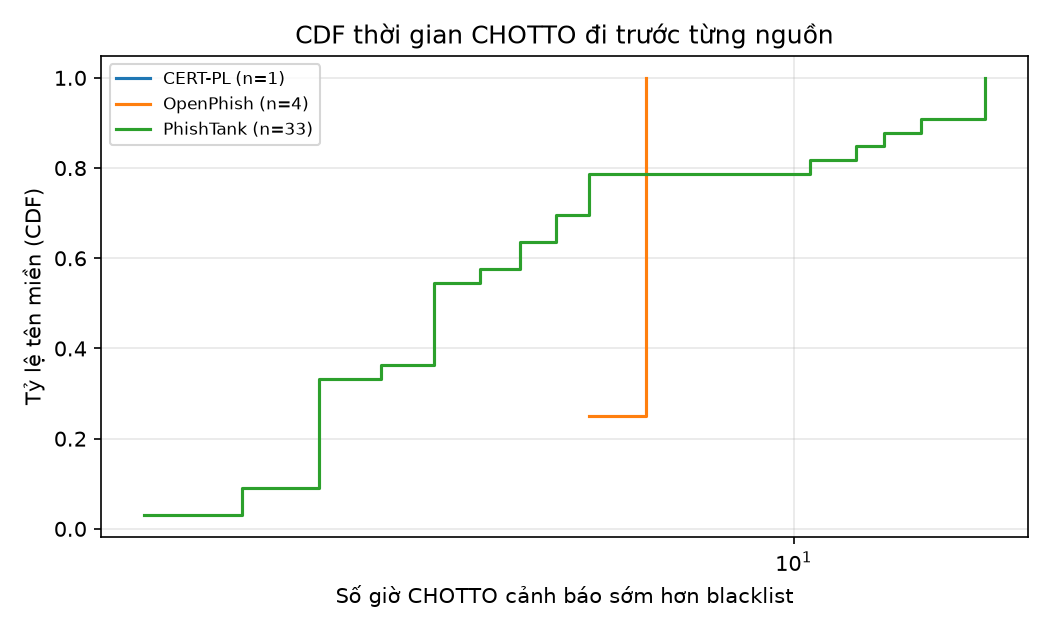
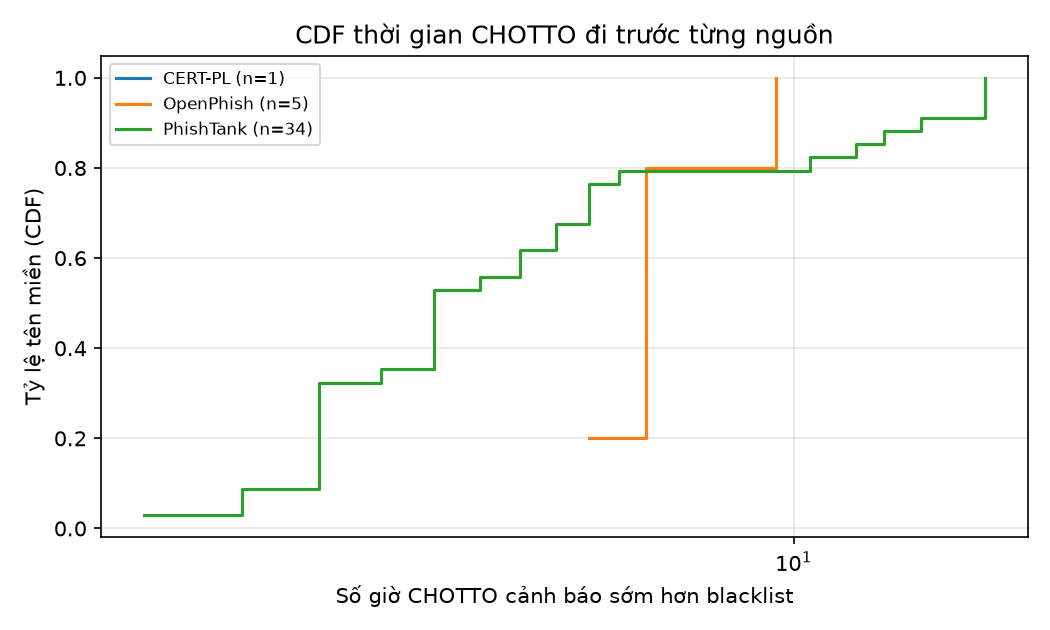
Chốt báo cáo zero-day: 3,0 ngày, 150 lần thu thập, 5.360 tên miền mới
- tỷ lệ bắt tách theo nguồn (OpenPhish 86,6%, PhishTank 24,1%, CERT-PL 7,7%); con số gộp 29,2% do cơ cấu mẫu
- PhishTank liệt kê muộn hơn trung vị 3,5 giờ (34 mẫu); thêm hạn chế về PhishTank 429 và cơ cấu mẫu
- cập nhật biểu đồ và zero-day-report.md/json

diff --git a/docs/BAO-CAO-ZERO-DAY.md b/docs/BAO-CAO-ZERO-DAY.md
@@ -1,7 +1,8 @@
 # Khoảng trống zero-day của link lừa đảo: CHOTTO (Tầng 2) đi trước blacklist bao lâu?
 
-> **Trạng thái (19/11/2026):** công cụ đo đã xong, báo cáo đã có số liệu tạm trên 2,61 ngày dữ liệu. Mọi chỗ đánh dấu **[CẦN CẬP NHẬT]** phải điền lại sau khi thu thập đủ ≥ 3 ngày (khuyến nghị 7 ngày).
-> Cách cập nhật nằm ở cuối file.
+> **Trạng thái: bản chốt (19/11/2026 14:00 UTC).** Thu thập 150 lần trong đúng 3,0 ngày (16/11 13:41 → 19/11 13:48 UTC),
+> 5.360 tên miền mới. Số liệu gốc: `docs/zero-day-report.md` và `docs/zero-day-report.json`. Thu thập vẫn đang chạy;
+> muốn cập nhật số liệu dài hơn thì xem mục cuối.
 
 ## 1. Đặt vấn đề
 
@@ -77,62 +78,88 @@ OpenPhish thêm mục mới (240 tên miền), vì vậy 230 tên miền đã ch
 so sánh được với nguồn thứ hai**. Đã thêm PhishTank và CERT-PL (baseline CERT-PL: 103.064 mục); PhishTank trả
 HTTP 429 (giới hạn tần suất tải) ở lần thử đầu, cần theo dõi. Các tên miền đã chấm trước khi một nguồn mới vào đo có thể nằm
 trong baseline của nguồn đó và bị loại riêng khỏi thống kê của nguồn đó (cắt trái). Hai nguồn lỗi vẫn nằm trong cấu hình để mỗi lần chạy thử lại; nếu chúng sống lại, lần thành công đầu tiên sẽ là
-baseline. **[CẦN CẬP NHẬT]** bảng tỷ lệ tải thành công theo nguồn từ `python tools/zero_day_gap.py status`.
+baseline.
+
+Tỷ lệ tải thành công sau 3 ngày (`python tools/zero_day_gap.py status`):
+
+| Nguồn | Thành công | Ghi chú |
+| --- | ---: | --- |
+| OpenPhish | 150/150 (100%) | |
+| CERT-PL | 114/115 (99%) | một lần hết thời gian chờ SSL |
+| PhishTank | 30/81 (37%) | HTTP 429 (giới hạn tần suất); **lần thành công cuối 19/11 08:18 UTC** |
+| Phishing.Database (NEW, ACTIVE) | 35/35 | đã bỏ khỏi danh sách từ 17/11, nguồn không đổi, bị loại khỏi bảng so sánh |
+| URLhaus | 0/150 | HTTP 410 |
+| ChongLuaDao | 0/150 | lỗi DNS |
 
 ### 4.2. Tỷ lệ cảnh báo ngay lúc thấy lần đầu
 
-**Số liệu tạm: 2,61 ngày, 131 lần thu thập, 3.310 tên miền mới (chốt 19/11/2026 04:18 UTC). [CẦN CẬP NHẬT khi đủ 3 ngày]**
-
 | Nhóm | Số tên miền mới | Cảnh báo | Tỷ lệ | Mức HIGH |
 | --- | ---: | ---: | ---: | ---: |
-| Tất cả | 3.310 | 1.330 | 40,2% | 814 |
-| Nhắm VN | 69 | 69 | 100% | 69 |
-| Toàn cầu | 3.241 | 1.261 | 38,9% | 745 |
+| Tất cả | 5.360 | 1.565 | 29,2% | 969 |
+| Nhắm VN | 80 | 80 | 100% | 80 |
+| Toàn cầu | 5.280 | 1.485 | 28,1% | 889 |
 
 Cách đọc đúng các con số này:
 
-- **Con số 40,2% là kết quả của cơ cấu mẫu, không phải một năng lực duy nhất.** Tỷ lệ bắt phụ thuộc rất mạnh vào nguồn
-  phát hiện tên miền: OpenPhish (cho URL đầy đủ) 86% (1.026/1.195), PhishTank 23% (36/156), CERT-PL (chỉ có tên
-  miền, nhiều tên miền thương mại thông thường) 14% (268/1.959). CERT-PL chiếm 59% mẫu nên kéo con số chung xuống.
+- **Con số chung 29,2% là kết quả của cơ cấu mẫu, không phải một năng lực duy nhất.** Tỷ lệ bắt phụ thuộc rất mạnh vào
+  nguồn phát hiện tên miền:
+
+  | Nguồn phát hiện đầu tiên | Số tên miền | Được cảnh báo | Tỷ lệ |
+  | --- | ---: | ---: | ---: |
+  | OpenPhish (URL đầy đủ) | 1.429 | 1.237 | 86,6% |
+  | PhishTank (URL đầy đủ) | 158 | 38 | 24,1% |
+  | CERT-PL (chỉ có tên miền) | 3.773 | 290 | 7,7% |
+  | *Hai nguồn có URL đầy đủ gộp lại* | *1.587* | *1.275* | *80,3%* |
+
+  CERT-PL chiếm 70% mẫu và kéo con số chung xuống. Tỷ lệ chung vì thế biến động theo thời gian (40,2% ở 2,6 ngày,
+  29,2% ở 3,0 ngày) chỉ do CERT-PL đưa thêm nhiều tên miền một lúc. **Không nên trích con số chung làm "tỷ lệ bắt zero-day"**.
+  Cách báo cáo trung thực: *khoảng 80% với link lừa đảo có URL đầy đủ như OpenPhish/PhishTank và khoảng 8% với tên miền
+  trần trong danh sách CERT-PL*, kèm các hạn chế ở mục 5.
 - **Nhóm "nhắm VN" 100% là vì cách xác định nhóm**: tên miền chứa từ khóa thương hiệu VN thì chính từ khóa đó cũng làm
-  Tầng 2 chấm điểm cao (mạo danh thương hiệu). Với n = 69, đây là cận trên, không phải tỷ lệ bắt thật với link nhắm VN.
-- Kết quả tương đối nhất quán với `BAO-CAO-DO-CHINH-XAC.md` (40,6% link toàn cầu trên danh sách tĩnh), dù hai phép đo khác
-  nhau về nguồn dữ liệu.
+  Tầng 2 chấm điểm cao (mạo danh thương hiệu). Với n = 80, đây là cận trên, không phải tỷ lệ bắt thật với link nhắm VN.
+- Con số 28-29% toàn cầu thấp hơn 40,6% của `BAO-CAO-DO-CHINH-XAC.md` (danh sách tĩnh của Phishing.Database) vì hai
+  phép đo khác nguồn: danh sách tĩnh chứa nhiều URL đầy đủ, còn mẫu này có 70% là tên miền trần từ CERT-PL.
 
 ![Tỷ lệ bắt theo nhóm](zero-day-rate-by-group.png)
 
 ### 4.3. CHOTTO đi trước từng nguồn bao nhiêu giờ
 
-**Số liệu tạm (2,61 ngày). [CẦN CẬP NHẬT khi đủ 3 ngày]** "Xét" là số tên miền không nằm trong baseline của nguồn đó.
+"Xét" là số tên miền không nằm trong baseline của nguồn đó.
 
-| Nguồn | Xét | Chưa liệt kê | Liệt kê muộn hơn | Cùng lúc | Sớm hơn Q1 / trung vị / Q3 (giờ) |
-| --- | ---: | ---: | ---: | ---: | --- |
-| OpenPhish | 3.310 | 2.095 | 20 | 1.195 | 6,2 / 6,5 / 6,5 |
-| PhishTank | 3.296 | 3.079 | 59 | 158 | 2,5 / 3,5 / 5,5 |
-| CERT-PL | 3.309 | 1.349 | 1 | 1.959 | 5,5 (một mẫu) |
+| Nguồn | Xét | Chưa liệt kê | Liệt kê muộn hơn | Cùng lúc | Mẫu tính độ trễ | Sớm hơn Q1 / trung vị / Q3 (giờ) |
+| --- | ---: | ---: | ---: | ---: | ---: | --- |
+| PhishTank | 5.346 | 5.125 | 61 | 160 | 34 | 2,5 / 3,5 / 5,5 |
+| OpenPhish | 5.360 | 3.909 | 22 | 1.429 | 5 | 6,5 / 6,5 / 6,5 |
+| CERT-PL | 5.359 | 1.585 | 1 | 3.773 | 1 | 5,5 (một mẫu) |
 
-Phần lớn tên miền nằm ở "chưa liệt kê" hoặc "cùng lúc" nên **số mẫu để tính độ trễ rất nhỏ** (cột cuối chỉ tính tên
-miền CHOTTO cảnh báo được và nguồn liệt kê muộn hơn: 33 mẫu với PhishTank, 4 với OpenPhish, 1 với CERT-PL). Kết luận
-tạm thời: với PhishTank, trung vị CHOTTO đi trước khoảng 3,5 giờ; với OpenPhish và CERT-PL chưa đủ mẫu để nói gì. Cột
-"cùng lúc" của mỗi nguồn gồm cả các tên miền do chính nguồn đó phát hiện đầu tiên, nên không phản ánh tốc độ của nó.
-PhishTank bị giới hạn tần suất nên chỉ tải mỗi giờ một lần từ 18/11, độ phân giải thời điểm liệt kê của nó thô hơn
-(khoảng 1 giờ) so với hai nguồn còn lại.
+"Mẫu tính độ trễ" là tên miền CHOTTO cảnh báo được **và** nguồn liệt kê muộn hơn; chỉ các mẫu này vào cột cuối.
+
+- **Chỉ PhishTank có đủ mẫu để nói điều gì đó:** với 34 tên miền CHOTTO cảnh báo được, PhishTank liệt kê muộn hơn
+  trung vị **3,5 giờ** (Q1 2,5, Q3 5,5). Với OpenPhish (5 mẫu, cùng cho 6,5 giờ) và CERT-PL (1 mẫu) chưa đủ để kết luận.
+- **Phần lớn tên miền chưa được nguồn nào liệt kê lại** (OpenPhish 73%, PhishTank 96%, CERT-PL 30%). Đó là dữ liệu bị
+  cắt phải: khoảng trống thật của các tên miền này lớn hơn thời gian đo, nên con số 3,5 giờ là **cận dưới** và chỉ mô tả
+  những tên miền cuối cùng cũng được liệt kê.
+- Cột "cùng lúc" gồm cả các tên miền do chính nguồn đó phát hiện đầu tiên, nên không phản ánh tốc độ của nó.
+- **PhishTank chỉ tải thành công 37% số lần và lần cuối là 08:18 UTC ngày 19/11**: các tên miền xuất hiện sau mốc đó
+  không thể được tính là "đã liệt kê" ở PhishTank, nên con số "chưa liệt kê" của nó (96%) bị thổi phồng.
 
 ![CDF số giờ CHOTTO sớm hơn](zero-day-cdf.png)
 
 ### 4.4. Vì sao một số tên miền lọt
 
-**Số liệu tạm. [CẦN CẬP NHẬT khi đủ 3 ngày]** 1.980 tên miền bị bỏ sót (điểm < 30).
+3.795 tên miền bị bỏ sót (điểm < 30), tức 70,8% mẫu.
 
-- **Phân bố điểm lưỡng cực:** 1.899 tên miền (57%) có điểm dưới 20, còn nhóm 60 trở lên có 814 tên miền. Tức là Tầng 2
-  hoặc thấy rất rõ hoặc gần như không thấy gì; rất ít tên miền nằm lưng chừng ngưỡng 30 (chỉ 81 ở khoảng 20-29).
-- **Dấu hiệu giúp bắt được:** `free_hosting` (1.120), `entropy` (892), `hyphens` (828), `http` (531), `digits` (372).
-  Chỉ 67 tên miền bắt được nhờ `combosquat` và 6 nhờ `typosquat`: cơ chế mạo danh thương hiệu hiếm khi kích hoạt trong mẫu này.
-- **Vì sao lọt:** 691 trong 1.980 tên miền bị bỏ sót có đúng một dấu hiệu `tld` (đuôi rẻ tiền) nhưng điểm không đủ ngưỡng;
-  phần lớn số còn lại không có dấu hiệu nào hoặc chỉ có dấu hiệu nhẹ (`entropy` 82, `digits` 63, `http` 62, `hyphens` 55), tức là tên miền trông như một tên miền thương mại bình thường. Đuôi hay lọt:
-  `.com` (586), `.shop` (393), `.digital` (140), `.pro` (135), `.store` (104).
-- **Tập trung theo chiến dịch:** nhiều tên miền lọt là biến thể của cùng một chiến dịch (ví dụ họ `addliq*.com`,
-  `truly*`, `insta*`, `roblo*`), nên số đếm bị một vài chiến dịch lớn chi phối.
+- **Phân bố điểm lưỡng cực:** 3.696 tên miền (69%) có điểm dưới 20 và 969 tên miền (18%) từ 60 trở lên; chỉ 99 tên
+  miền ở khoảng 20-29. Tầng 2 hoặc thấy rất rõ hoặc gần như không thấy gì, rất ít tên miền nằm sát ngưỡng 30. Vì vậy
+  hạ ngưỡng một chút không cứu được phần lớn tên miền lọt.
+- **Dấu hiệu giúp bắt được:** `free_hosting` (1.332), `entropy` (1.042), `hyphens` (981), `http` (638), `digits` (425).
+  Chỉ 77 tên miền bắt được nhờ `combosquat` và 6 nhờ `typosquat`: cơ chế mạo danh thương hiệu hiếm khi kích hoạt trong mẫu này.
+- **Vì sao lọt:** 834 trong 3.795 tên miền bị bỏ sót có dấu hiệu `tld` (đuôi rẻ tiền) nhưng điểm không đủ ngưỡng; phần
+  lớn số còn lại không có dấu hiệu nào hoặc chỉ có dấu hiệu nhẹ (`entropy` 106, `http` 74, `digits` 71, `hyphens` 59),
+  tức là tên miền trông như một tên miền thương mại bình thường. Đuôi hay lọt: `.com` (1.495), `.store` (656),
+  `.shop` (453), `.digital` (167), `.pro` (142), `.space` (136).
+- **Tập trung theo chiến dịch:** nhiều tên miền lọt là biến thể của cùng một chiến dịch (ví dụ các họ `truly*`, `choic*`,
+  `addli*`, `brigh*`, `clear*`, `insta*`), nên số đếm bị một vài chiến dịch lớn chi phối.
 - **Không có tên miền nào lọt nằm trên nền tảng hosting miễn phí**: các tên miền này được tính theo hậu tố PRIVATE của PSL
   và đều được cảnh báo.
 
@@ -154,29 +181,34 @@ Danh sách mẫu bị bỏ sót nằm trong `docs/zero-day-report.md`. Ý tưở
    nhất với Việt Nam. Kết luận chỉ áp dụng cho các nguồn thực sự đo được.
 5. **Không đo Google Safe Browsing.** Tra từng URL qua dịch vụ ngoài vi phạm nguyên tắc không gửi URL ra ngoài các feed
    đã liệt kê, và API cần khóa.
-6. **Ảnh hưởng của feed chỉ có tên miền.** Phishing.Database ACTIVE chỉ có tên miền, nên điểm của nó được tính khi mất
+6. **Ảnh hưởng của feed chỉ có tên miền.** CERT-PL (và feed Phishing.Database ACTIVE trước đó) chỉ có tên miền, nên điểm của chúng được tính khi mất
    đường dẫn và tham số (nhiều tín hiệu của Tầng 2 nằm ở đó), có thể làm tỷ lệ bắt thấp hơn thực tế.
 7. **Nhóm "nhắm VN" xác định bằng quy tắc** (đuôi `.vn` hoặc từ khóa thương hiệu), không phải nhãn thật; tên miền
    chứa từ khóa thương hiệu có thể là trang hợp pháp bị nhầm. Cỡ mẫu nhóm này có thể rất nhỏ.
 8. **Tên miền đăng ký theo PSL** coi từng subdomain trên nền tảng hosting (PRIVATE) là một tên miền riêng, nên một
    chiến dịch lớn trên cùng nền tảng có thể làm lệch số đếm.
+9. **Cơ cấu mẫu phụ thuộc nguồn.** Nguồn chiếm đa số tên miền (CERT-PL, 70%) quyết định con số chung. Mỗi nguồn có định
+   nghĩa "độc hại" và dạng dữ liệu (tên miền trần hay URL đầy đủ) khác nhau, nên các con số theo nguồn đáng tin hơn con số chung.
+10. **PhishTank bị giới hạn tần suất** (tải thành công 37%, lần cuối 19/11 08:18 UTC), nên thống kê của nó thiên về
+    "chưa liệt kê" sau mốc đó.
+11. **Thời gian đo ngắn (3 ngày) và mẫu độ trễ nhỏ** (34/5/1 mẫu). Quartile của OpenPhish và CERT-PL không có ý nghĩa
+    thống kê.
 
 ## 6. Kết luận
 
-**Kết luận tạm thời (2,61 ngày dữ liệu, 3.310 tên miền mới). [CẦN CẬP NHẬT khi đủ 3 ngày]**
+Dựa trên 3,0 ngày dữ liệu (150 lần thu thập, 5.360 tên miền mới, ba nguồn đo được):
 
-1. **Tỷ lệ bắt zero-day.** CHOTTO chỉ với Tầng 2 cảnh báo được khoảng 40% tên miền lừa đảo mới ngay lần đầu thấy
-   (38,9% nhóm toàn cầu). Con số này phụ thuộc mạnh vào nguồn: 86% với tên miền từ OpenPhish (có URL đầy đủ) nhưng chỉ
-   14-23% với tên miền từ CERT-PL/PhishTank (thường chỉ có tên miền, trông bình thường). Con số 100% của nhóm nhắm VN
-   chưa đáng tin vì n = 69 và nhóm được xác định bằng đúng tín hiệu thương hiệu.
-2. **Khoảng trống zero-day.** Với những tên miền Tầng 2 bắt được mà blacklist liệt kê sau, PhishTank liệt kê muộn hơn trung vị khoảng
-   3,5 giờ (Q1 2,5, Q3 5,5; 33 mẫu). Với OpenPhish và CERT-PL số mẫu quá ít. Phần lớn tên miền (2.095 với OpenPhish, 3.079 với PhishTank) chưa
-   được nguồn đó liệt kê trong thời gian đo, nên khoảng trống thật có thể lớn hơn con số này (dữ liệu bị cắt phải).
-3. **Phần lọt.** Tầng 2 bỏ sót hai nhóm chính: tên miền có đuôi rẻ tiền nhưng không có dấu hiệu nào khác, và tên miền
-   thương mại bình thường không mạo danh thương hiệu. Đây là giới hạn của heuristic chỉ dựa vào hình dạng tên miền;
-   Tầng 3 (tuổi tên miền) và blacklist là những lớp bổ sung cho nhóm này.
-4. Các hạn chế ở mục 5 nghĩa là các con số là **cận dưới/giá trị tham khảo** và chỉ áp dụng cho các nguồn đo được. Chưa nên
-   trích con số cụ thể ra ngoài báo cáo này khi chưa cập nhật bản cuối.
+1. **Tỷ lệ bắt zero-day phụ thuộc vào dạng dữ liệu.** CHOTTO chỉ với Tầng 2 cảnh báo ngay lần đầu thấy khoảng **80%** link
+   lừa đảo có URL đầy đủ (OpenPhish + PhishTank: 1.275/1.587), nhưng chỉ khoảng **8%** tên miền trần trong danh sách
+   CERT-PL (290/3.773). Con số gộp 29,2% chỉ phản ánh cơ cấu mẫu và không nên dùng làm tỷ lệ bắt chung. Số 100% của
+   nhóm nhắm VN (80/80) chưa đáng tin vì nhóm được xác định bằng đúng tín hiệu thương hiệu.
+2. **Khoảng trống zero-day.** Với những tên miền Tầng 2 bắt được mà blacklist liệt kê sau, PhishTank liệt kê muộn hơn
+   trung vị **3,5 giờ** (Q1 2,5, Q3 5,5; 34 mẫu). Với OpenPhish và CERT-PL số mẫu quá ít. Phần lớn tên miền (73% với
+   OpenPhish, 96% với PhishTank) chưa được liệt kê trong thời gian đo, nên khoảng trống thật có thể lớn hơn 3,5 giờ; đây là cận dưới.
+3. **Phần lọt.** 70,8% tên miền bị bỏ sót, chủ yếu là tên miền đuôi rẻ tiền không có dấu hiệu nào khác hoặc trông như tên miền
+   thương mại bình thường. Điểm số lưỡng cực (69% dưới 20 điểm, chỉ 99 tên miền ở 20-29), nên chỉnh ngưỡng không giải quyết
+   được. Đó là giới hạn của heuristic chỉ dựa vào hình dạng tên miền; Tầng 3 (tuổi tên miền) và blacklist là lớp bổ sung cho nhóm này.
+4. Các hạn chế ở mục 5 nghĩa là các con số là **cận dưới/giá trị tham khảo** và chỉ áp dụng cho các nguồn đo được.
 
 ---
 
@@ -188,4 +220,4 @@ python tools/zero_day_gap.py report --md docs/zero-day-report.md --json docs/zer
 python tools/zero_day_gap.py plot --out docs
 ```
 
-rồi điền lại các mục **[CẦN CẬP NHẬT]** ở trên từ `docs/zero-day-report.md`.
+rồi cập nhật lại các con số ở mục 4 và 6 từ `docs/zero-day-report.md` (bản chốt này dùng số liệu đến 19/11/2026 13:48 UTC).
